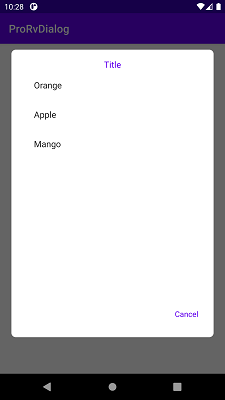
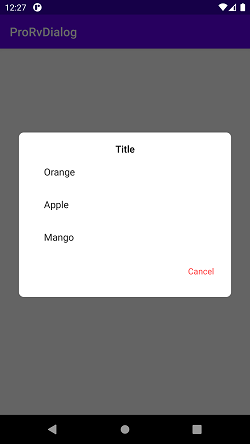
negative color added

diff --git a/rvdialog/src/main/java/com/lastblade/rvdialog/RvDialog.kt b/rvdialog/src/main/java/com/lastblade/rvdialog/RvDialog.kt
@@ -53,7 +53,13 @@ class RvDialog(context: Context) : Dialog(context, R.style.customRVDialog) {
     }
 
     @JvmOverloads
-    fun negativeButton(text: String = "Cancel", @ColorInt textColor: Int = 0): RvDialog = apply {
+    fun negativeButton(
+        text: String = "Cancel",
+        @ColorInt textColor: Int = ContextCompat.getColor(
+            context,
+            android.R.color.holo_red_light
+        )
+    ): RvDialog = apply {
         cancel.text = text
         cancel.setTextColor(textColor)
         cancel.setOnClickListener { dismiss() }

diff --git a/app/src/main/java/com/lastblade/spinnerdialogtest/MainActivity.kt b/app/src/main/java/com/lastblade/spinnerdialogtest/MainActivity.kt
@@ -24,12 +24,12 @@ class MainActivity : AppCompatActivity() {
 
         btnShowDialog.setOnClickListener {
             RvDialog(this).show {
-                title("Title", ContextCompat.getColor(context, R.color.colorPrimaryDark))
+                title("Title")
                 listValues(data) { text, position ->
                     this@MainActivity.tv.text = "Selected item: $text"
                 }
 
-                negativeButton(textColor = resources.getColor(R.color.colorAccent))
+                negativeButton()
             }
         }
 
